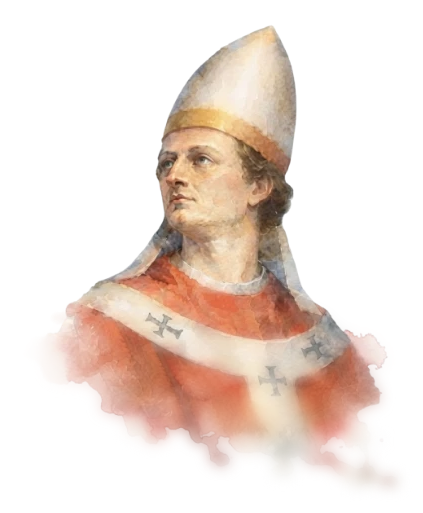
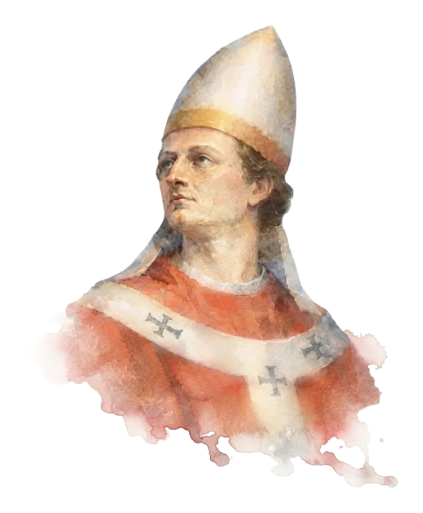
Pictures without the bottom blur; progress strip and title 12u lower
The three cut-outs are re-split from the source with no blur (same sizes,
so the picture boxes are unchanged). The progress strip and the title's
top position move down 12u; the centred intro position stays where it was.

Claude-Session: https://claude.ai/code/session_01GATDcCAs79GFnzRRRwYMir

Changed region(s): [[0.3688, 0.8109, 0.5532, 0.9045], [0.7376, 0.8421, 0.7991, 0.9357], [0.8605, 0.9045, 0.9527, 0.9669]]

diff --git a/index.html b/index.html
@@ -96,7 +96,7 @@
   .progress {
     position: absolute;
     left: calc(112.2 * var(--u));      /* 40% smaller than the Figma strip, gaps +10%, centred */
-    top: calc(72.4 * var(--u));
+    top: calc(84.4 * var(--u));   /* 12u lower than Figma, by request */
     width: calc(177.6 * var(--u));
     height: calc(7.2 * var(--u));
     opacity: 0.2;
@@ -117,7 +117,7 @@
     position: absolute;
     left: 0;
     right: 0;
-    top: calc(130 * var(--u));
+    top: calc(142 * var(--u));    /* 12u lower than Figma, by request */
     margin: 0;
     display: grid;
     justify-items: center;
@@ -128,7 +128,7 @@
      the page (block ~61u tall, centred on y 437); it glides up to its place
      at the top when the first picture appears. */
   .prompt { transition: translate 750ms var(--ease-in-out); }
-  .stage[data-intro] .prompt { translate: 0 calc(216 * var(--u)); }   /* centred, then 60u higher by request */
+  .stage[data-intro] .prompt { translate: 0 calc(204 * var(--u)); }   /* centred, then 60u higher by request (same spot as before the 12u move) */
   @media (prefers-reduced-motion: reduce) { .prompt { transition: none; } }
   .prompt-label {
     font-family: var(--sf);

diff --git a/CLAUDE.md b/CLAUDE.md
@@ -56,12 +56,13 @@ user double-clicks it on their Mac.
   Around the phone the preview background is white (`--surround: #fff`) and the
   phone has no drop shadow (both by request).
 - Top: the progress strip (six blob shapes at 20% opacity, centred). The user
-  asked for it 40% smaller than in Figma, then 10% wider gaps: 178 × 7u at y ≈ 72.
+  asked for it 40% smaller than in Figma, then 10% wider gaps: 178 × 7u at y ≈ 84
+  (moved 12u down, by request).
   No close button: the main Figma frame has none.
 - Title in SF Pro (system font stack `--sf`): "Translate" Light 20px at 40%
-  black, y 130; "Dad" Regular 28px `#302e2a`, y 158.
+  black, y 142; "Dad" Regular 28px `#302e2a`, y 170 (both moved 12u down, by request).
   Before the first word (and after "next") the title sits 60u above the vertical
-  centre of the page (`.stage[data-intro]`); it glides up to y 130 as soon as
+  centre of the page (`.stage[data-intro]`); it glides up to y 142 as soon as
   the mic is pressed (`beginTake()`), and goes back if the take ends with no picture.
 - Opening (on load, once): the progress dots pop in left to right, "Translate"
   then "Dad" rise 14u with a blur that clears, then the voice blob blooms in
@@ -134,8 +135,8 @@ new defaults show.
 
 `assets/{potato,pope,dad}-cutout.png` are split from the user's
 `assets/pictures-source.webp` (three transparent cut-outs side by side), each
-with a 24px transparent margin and a blur that ramps in over its lower 45%
-(colour and alpha blurred premultiplied, so no dark fringes). `PICTURES` boxes
+with a 24px transparent margin and no blur (a bottom blur was tried and removed
+by request). `PICTURES` boxes
 are each picture's visible bounds in the Figma frames; `layer()` ignores the
 24px margin when sizing. `assets/{pope,potato,dad}.jpg` and `*-mask.png` are
 the older full watercolors, no longer used by the page.
